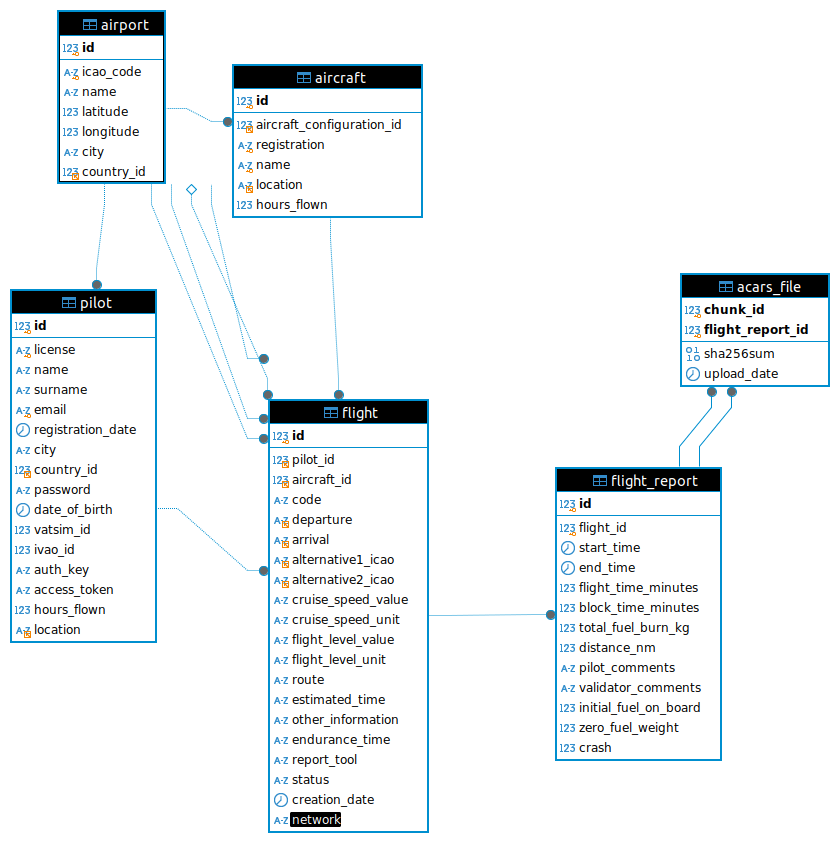
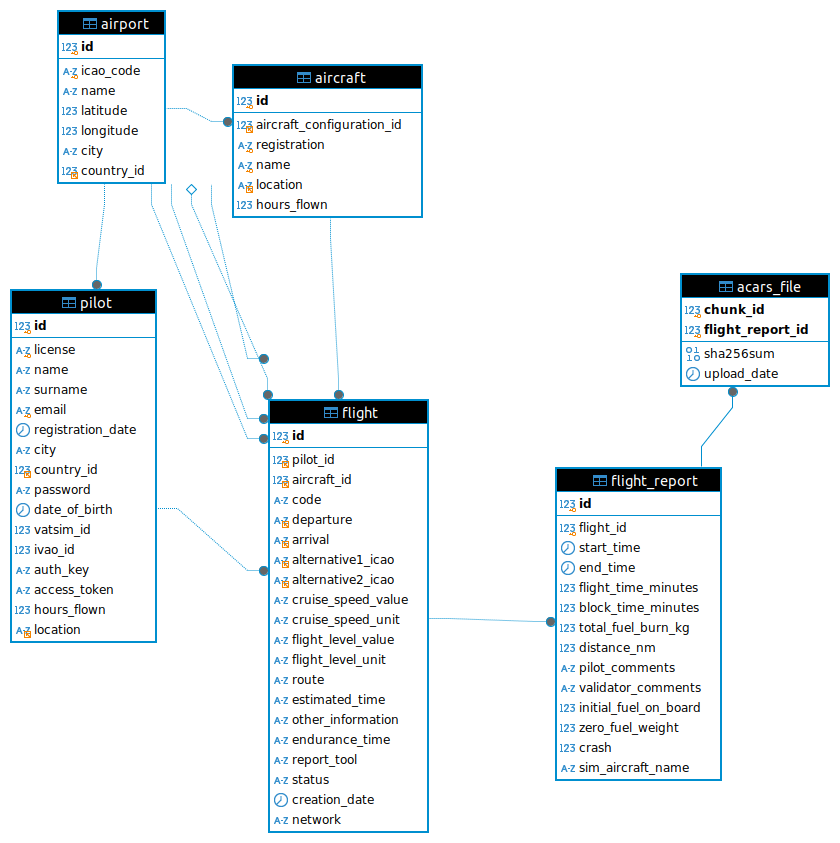
Report added flight sim aircraft

diff --git a/basic/models/FlightReport.php b/basic/models/FlightReport.php
@@ -20,6 +20,7 @@ use Yii;
  * @property int|null $initial_fuel_on_board
  * @property int|null $zero_fuel_weight
  * @property int|null $crash
+ * @property string|null $sim_aircraft_name
  *
  * @property AcarsFile[] $acarsFiles
  * @property Flight $flight
@@ -44,7 +45,9 @@ class FlightReport extends \yii\db\ActiveRecord
             [['flight_id', 'flight_time_minutes', 'block_time_minutes', 'total_fuel_burn_kg', 'distance_nm', 'initial_fuel_on_board', 'zero_fuel_weight', 'crash'], 'integer'],
             [['start_time', 'end_time'], 'safe'],
             [['start_time', 'end_time'], 'datetime', 'format' => 'php:Y-m-d H:i:s'],
+            [['pilot_comments', 'validator_comments', 'sim_aircraft_name'], 'trim'],
             [['pilot_comments', 'validator_comments'], 'string', 'max' => 400],
+            [['sim_aircraft_name'], 'string', 'max' => 50],
             [['flight_id'], 'unique'],
             [['flight_id'], 'exist', 'skipOnError' => true, 'targetClass' => Flight::class, 'targetAttribute' => ['flight_id' => 'id']],
         ];
@@ -69,6 +72,7 @@ class FlightReport extends \yii\db\ActiveRecord
             'initial_fuel_on_board' => 'Initial Fuel On Board',
             'zero_fuel_weight' => 'Zero Fuel Weight',
             'crash' => 'Crash',
+            'sim_aircraft_name' => 'Sim Aircraft Name',
         ];
     }
 
